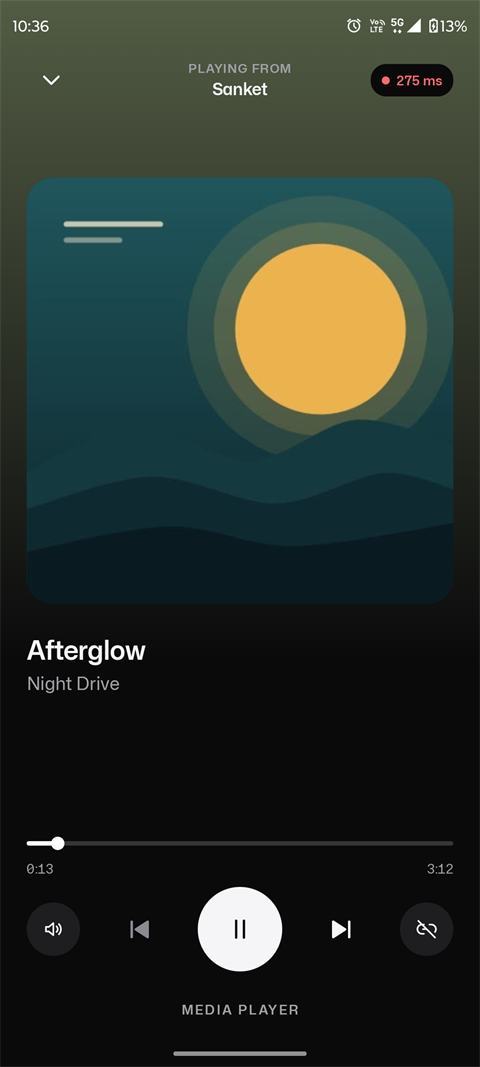
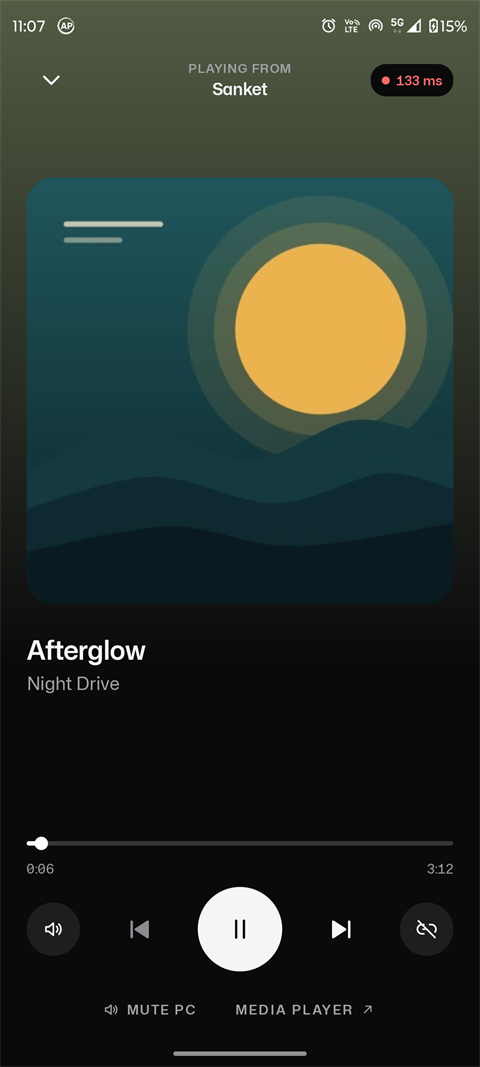
README: phone screenshots for 0.5
* [x] Home with the PC found on Wi-Fi and Connect over Wi-Fi
* [x] Player over Wi-Fi with Mute PC and the source link
* [x] Output picker retaken on the new player

diff --git a/README.md b/README.md
@@ -24,13 +24,13 @@ with the song, cover art and controls on both screens.
 
 <br><br>
 
-<img src="docs/screenshots/android-player.png" width="240" alt="The Android player: cover art, title, seek bar, controls and the playing app">
+<img src="docs/screenshots/android-player.png" width="240" alt="The Android player over Wi-Fi: cover art, title, seek bar, controls, Mute PC and the playing app with a link to open it on the phone">
 &nbsp;&nbsp;
-<img src="docs/screenshots/android-home.png" width="240" alt="The Android home screen: connected to the PC, streaming, with a mini player">
+<img src="docs/screenshots/android-home.png" width="240" alt="The Android home screen: the PC found on this Wi-Fi, with Connect over Wi-Fi and USB as an option">
 &nbsp;&nbsp;
 <img src="docs/screenshots/android-output.png" width="240" alt="Choosing where the phone plays: Automatic or the phone speaker">
 
-<sub>On the phone: the player, home, and the output picker.</sub>
+<sub>On the phone: the player (with Mute PC), home with the PC found on Wi‑Fi, and the output picker.</sub>
 
 </div>
 
